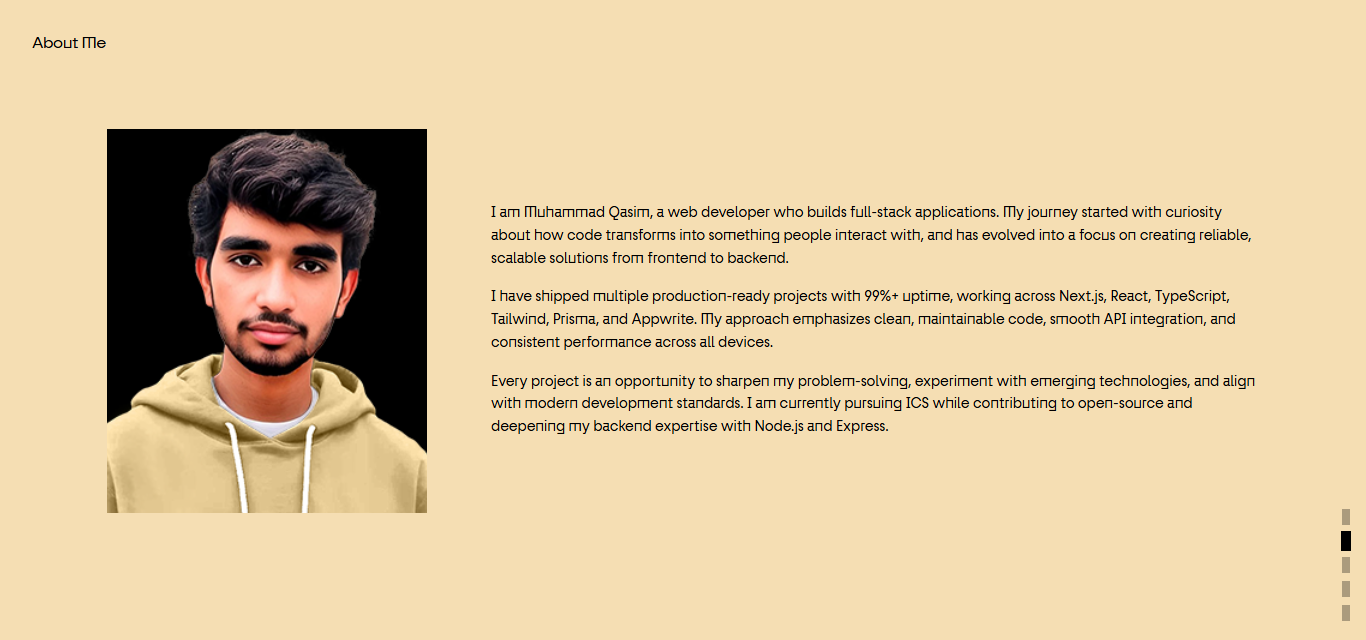
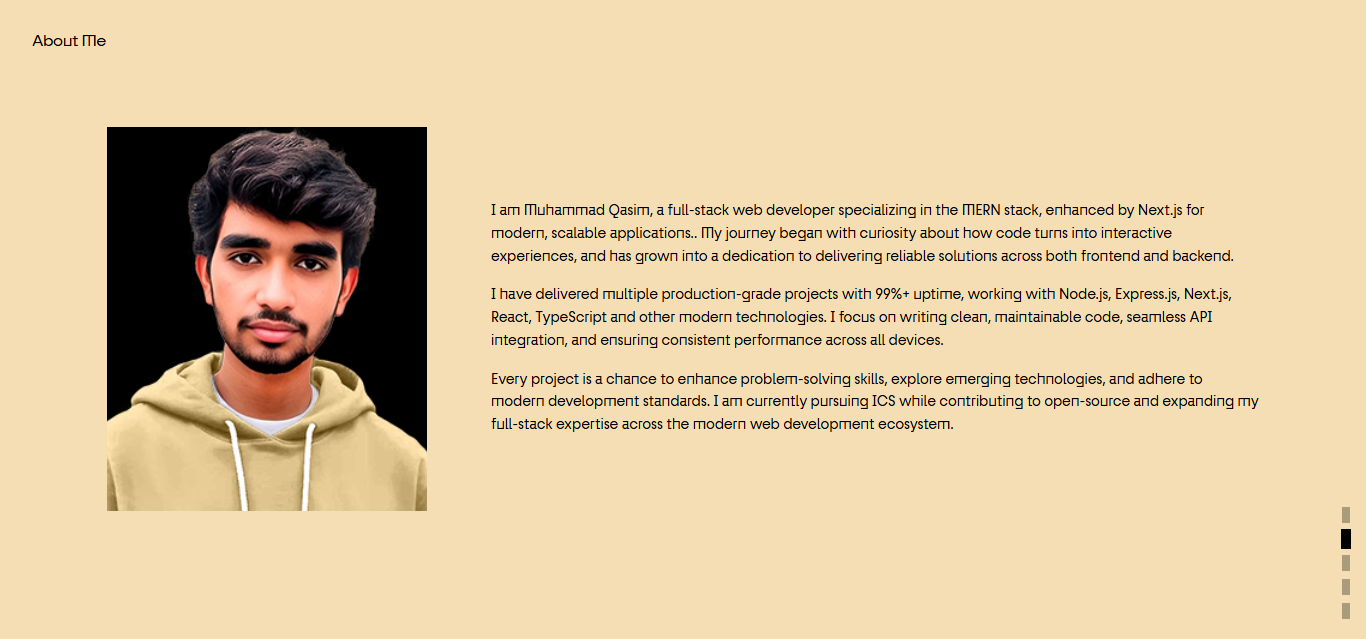
Change some descriptions

diff --git a/src/Components/AboutSection.tsx b/src/Components/AboutSection.tsx
@@ -19,25 +19,26 @@ function AboutSection() {
           <div className="flex-1">
             <div className="text-black md:text-sm sm:font-medium md:leading-relaxed sm:text-xs text-[10px] space-y-4">
               <p>
-                I am Muhammad Qasim, a web developer who builds full-stack
-                applications. My journey started with curiosity about how code
-                transforms into something people interact with, and has evolved
-                into a focus on creating reliable, scalable solutions from
-                frontend to backend.
+                I am Muhammad Qasim, a full-stack web developer specializing in
+                the MERN stack, enhanced by Next.js for modern, scalable
+                applications.. My journey began with curiosity about how code
+                turns into interactive experiences, and has grown into a
+                dedication to delivering reliable solutions across both frontend
+                and backend.
               </p>
               <p>
-                I have shipped multiple production-ready projects with 99%+
-                uptime, working across Next.js, React, TypeScript, Tailwind,
-                Prisma, and Appwrite. My approach emphasizes clean, maintainable
-                code, smooth API integration, and consistent performance across
-                all devices.
+                I have delivered multiple production-grade projects with 99%+
+                uptime, working with Node.js, Express.js, Next.js, React,
+                TypeScript and other modern technologies. I focus on writing
+                clean, maintainable code, seamless API integration, and ensuring
+                consistent performance across all devices.
               </p>
               <p>
-                Every project is an opportunity to sharpen my problem-solving,
-                experiment with emerging technologies, and align with modern
-                development standards. I am currently pursuing ICS while
-                contributing to open-source and deepening my backend expertise
-                with Node.js and Express.
+                Every project is a chance to enhance problem-solving skills,
+                explore emerging technologies, and adhere to modern development
+                standards. I am currently pursuing ICS while contributing to
+                open-source and expanding my full-stack expertise across the
+                modern web development ecosystem.
               </p>
             </div>
           </div>

diff --git a/index.html b/index.html
@@ -9,18 +9,18 @@
     <title>Qasim's Portfolio</title>
     <meta
       name="description"
-      content="Portfolio of Muhammad Qasim, a Web Developer skilled in Next.js, React.js, JavaScript and TypeScript. Explore my projects and skills."
+      content="Portfolio of Muhammad Qasim, a Full-Stack Web Developer specializing in MERN stack with the edge of Next.js, building scalable applications."
     />
     <meta
       name="keywords"
-      content="Muhammad Qasim, Full Stack Developer, Web Developer, Next.js Developer, React.js Developer, JavaScript, TypeScript Tailwind CSS, Portfolio, Responsive Web Design, UI Developer, React Projects"
+      content="Muhammad Qasim, Full Stack Developer, Web Developer, Node.js, Express.js, MongoDB, Mongoose, Next.js Developer, React.js Developer, JavaScript, TypeScript Tailwind CSS, Portfolio, Responsive Web Design, UI Developer, React Projects"
     />
 
     <!-- Open Graph (for social media) -->
     <meta property="og:title" content="Qasim's Portfolio" />
     <meta
       property="og:description"
-      content="Explore my portfolio featuring my projects and skills as a Web Developer."
+      content="Explore my portfolio featuring my projects and skills as a Full-Stack Web Developer."
     />
     <meta property="og:image" content="https://qasim-dev-portfolio.vercel.app/Home.png" />
     <meta property="og:type" content="website" />
@@ -31,7 +31,7 @@
     <meta name="twitter:title" content="Qasim's Portfolio" />
     <meta
       name="twitter:description"
-      content="Explore my portfolio featuring web development projects built with Next.js, React.js, TypeScript and Tailwind CSS."
+      content="Explore my portfolio featuring web development projects built MERN stack with the edge of Next.js."
     />
     <meta name="twitter:image" content="https://qasim-dev-portfolio.vercel.app/Home.png" />
 

diff --git a/src/Components/SkillsSection.tsx b/src/Components/SkillsSection.tsx
@@ -17,23 +17,23 @@ function SkillsSection() {
           </div>
 
           <div>
-            <p className="text-2xl font-bold mb-3">Frameworks</p>
+            <p className="text-2xl font-bold mb-3">Frontend</p>
             <p className="sm:text-sm text-[11px] font-medium">
               Next.js • React.js • Tailwind CSS 
             </p>
           </div>
 
           <div>
-            <p className="text-2xl font-bold mb-3">Libraries</p>
+            <p className="text-2xl font-bold mb-3">Backend</p>
             <p className="sm:text-sm text-[11px] font-medium">
-              Redux Toolkit • React Hook Form
+              Node.js • Express.js • Next.js • Appwrite • Clerk
             </p>
           </div>
 
           <div>
-            <p className="text-2xl font-bold mb-3">Backend & Database</p>
+            <p className="text-2xl font-bold mb-3">Database</p>
             <p className="sm:text-sm text-[11px] font-medium">
-              Next.js <span className="text-[10px]">(API Routes)</span> • Appwrite • Clerk • Prisma • SQLite
+              MongoDB • Mongoose • Prisma
             </p>
           </div>
 

diff --git a/src/Components/ContactSection.tsx b/src/Components/ContactSection.tsx
@@ -113,7 +113,7 @@ const ContactSection: React.FC = () => {
             </p>
             <div className="space-y-1.5">
               <div className="text-[#f5deb3] text-xs">
-                qasimch0404@gmail.com
+                qasimch0101@gmail.com
               </div>
               <div className="text-[#f5deb3] text-xs">+92 310 2755291</div>
             </div>
@@ -125,7 +125,7 @@ const ContactSection: React.FC = () => {
             </p>
             <div className="space-y-1.5 flex flex-col items-center justify-center">
               <a
-                href="https://drive.google.com/file/d/1mee5eO6EdPfifUCRzySsT_MopIkbGrF_/view?usp=sharing"
+                href="https://drive.google.com/file/d/1L9U_ECkJ07fIfk-zYz4M53lqaSLlqJ2x/view"
                 target="_blank"
                 rel="noreferrer"
                 className="text-[#f5deb3] text-xs w-30 hover:opacity-90 hover:tracking-wide transition-all"

diff --git a/src/Components/HomeSection.tsx b/src/Components/HomeSection.tsx
@@ -11,7 +11,7 @@ const HomeSection = () => {
           Qa<span className="lg:ml-3 md:ml-2.5 sm:ml-2 ml-0.5">s</span>im,
         </p>
         <p className="text-[#f5deb3] text-[5vw] tracking-tight text-center leading-tighter font-medium">
-          Web Developer
+          Full-Stack Web Developer
         </p>
       </div>
     </div>
